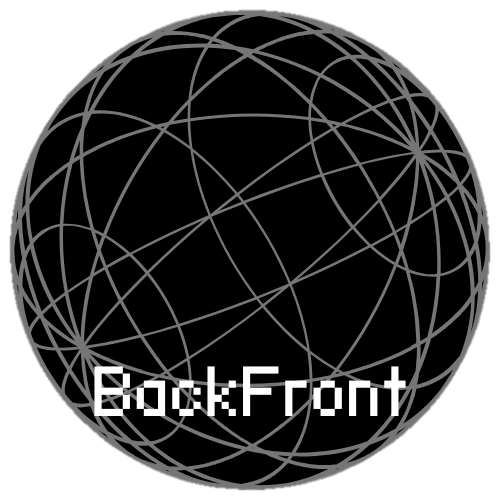
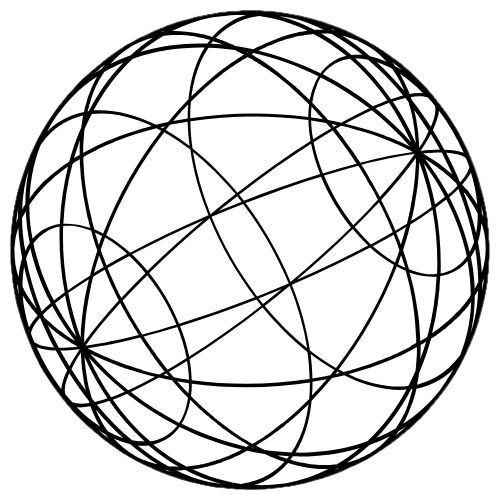
update 11:10
ReleaseNotes, New Logo, updated footer

diff --git a/src/client/index.html b/src/client/index.html
@@ -11,7 +11,7 @@
     <link
       rel="icon"
       type="image/x-icon"
-      href="../../resources/images/Favicon.svg"
+      href="../../resources/images/backfront-fav.png"
     />
 
     <!-- SEO -->
@@ -140,62 +140,11 @@
   >
     <header class="l-header">
       <div class="l-header__content">
-        <svg
-          xmlns="http://www.w3.org/2000/svg"
-          viewBox="0 0 1364 259"
-          width="100%"
-          height="100%"
-          fill="currentColor"
-          class="l-header__logo"
-        >
-          <defs>
-            <linearGradient
-              id="logo-gradient"
-              x1="0%"
-              y1="0%"
-              x2="100%"
-              y2="0%"
-            >
-              <stop offset="0%" style="stop-color: #2563eb" />
-              <stop offset="100%" style="stop-color: #3b82f6" />
-            </linearGradient>
-          </defs>
-          <g>
-            <path
-              d="M0,174V51h15.24v-17.14h16.81v-16.98h16.96V0h1266v17.23h17.13v16.81h16.98v16.96h14.88v123h-15.13v17.08h-17.08v17.08h-16.9v17.04H324.9v16.86h-16.9v16.95h-102v-17.12h-17.07v-17.05H48.73v-17.05h-16.89v-16.89H14.94v-16.89H0ZM1297.95,17.35H65.9v16.7h-17.08v17.08h-14.5v123.08h14.85v16.9h17.08v17.08h139.9v17.08h17.08v16.36h67.9v-16.72h17.08v-17.07h989.88v-17.07h17.08v-16.9h14.44V50.8h-14.75v-17.08h-16.9v-16.37Z"
-            />
-            <path
-              d="M189.1,154.78v17.07h-16.9v16.75h-51.07v-16.42h-16.9v-17.07h-16.97v-84.88h16.63v-17.07h16.9v-16.84h51.07v16.5h17.07v17.07h16.7v84.89h-16.54ZM137.87,53.1v17.15h-16.6v84.86h16.97v16.61h16.89v-16.97h16.6v-84.86h-16.97v-16.79h-16.89Z"
-            />
-            <path
-              d="M273.91,104.06v-16.73h50.92v16.45h16.85v68.05h-16.44v17.06h-50.96v16.88h16.4v16.96h-67.28v-16.61h16.33v-101.86h-16.38v-16.98h33.4v16.63c6.12,0,11.72,0,17.31,0,0,22.56,0,45.13,0,67.75h33.59v-67.61h-33.73Z"
-            />
-            <path
-              d="M631.12,188.64v-16.36h16.53V53.2h-16.25v-16.86h118.33v33.29h-16.65v-16.36h-50.72v50.44h33.36v-16.35h16.99v50.25h-16.6v-16.33h-33.73v50.65h16.37v16.72h-67.63Z"
-            />
-            <path
-              d="M596.78,103.8v84.94h-33.54v-84.39h-34.03v84.25h-33.85v-101.29h84.5v16.49h16.93Z"
-            />
-            <path
-              d="M1107.12,188.71v-84.34h-34.03v84.37h-33.7v-101.41h84.42v16.41h16.86v84.96h-33.54Z"
-            />
-            <path
-              d="M988.1,171.78v16.87h-67.88v-16.38h-16.87v-68.06h16.38v-16.87h68.06v16.38h16.87v68.06h-16.55ZM970.78,104.35h-33.39v67.38h33.39v-67.38Z"
-            />
-            <path
-              d="M460.77,155.38v16.49h-16.58v16.83h-68.05v-16.5h-16.83v-68.05h16.49v-16.83h68.05v16.49h16.83v34.06h-67.31v33.82h33.47v-16.31h33.92ZM393.39,104.18v16.56h33.3v-16.56h-33.3Z"
-            />
-            <path
-              d="M1209.13,172h-16.9v-67.9h-16.96v-16.9h16.68v-17.08h16.9v-16.82h16.9v33.58h50.98v16.91h-50.4v67.96h16.48v-16.43h50.95v16.54h-16.55v16.76h-68.08v-16.6Z"
-            />
-            <path
-              d="M834.91,120.94v16.96h-16.65v33.88h16.41v16.96h-67.29v-16.63h16.34v-67.87h-16.4v-16.97h50.42v33.81h17.3l-.14-.14Z"
-            />
-            <path
-              d="M835.05,121.08v-33.75h33.76v16.43h16.85v33.96h-33.43v-16.79c-6.13,0-11.73,0-17.32,0,0,0,.14.14.14.14Z"
-            />
-          </g>
-        </svg>
+        <img
+          src="../../resources/images/bf-logo.png"
+          width="50%"
+          height="200px"
+        />
         <div id="game-version" class="l-header__highlightText text-center">
           Loading version...
         </div>
@@ -329,28 +278,6 @@
           >
             How to Play
           </a>
-          <a
-            href="https://openfront.miraheze.org/wiki/Main_Page"
-            data-i18n="main.wiki"
-            class="t-link"
-            target="_blank"
-          >
-            Wiki
-          </a>
-          <a
-            target="_blank"
-            href="https://www.reddit.com/r/Openfront/"
-            class="t-link"
-          >
-            <span data-i18n="main.reddit"> Reddit </span>
-          </a>
-          <a
-            target="_blank"
-            href="https://discord.gg/jRpxXvG42t"
-            class="t-link"
-          >
-            <span data-i18n="main.join_discord"> Join the Discord! </span>
-          </a>
         </div>
         <div class="l-footer__col t-text-white space-x-4">
           <a
@@ -367,6 +294,7 @@
               class="ml-2"
             />
           </a>
+          <!--
           <a
             href="/privacy-policy.html"
             data-i18n="main.privacy_policy"
@@ -375,15 +303,7 @@
           >
             Privacy Policy
           </a>
-          <a
-            href="/terms-of-service.html"
-            data-i18n="main.terms_of_service"
-            class="t-link"
-            target="_blank"
-          >
-            Terms of Service
-          </a>
-        </div>
+        --></div>
       </div>
     </footer>
     <account-button></account-button>

diff --git a/src/client/NewsModal.ts b/src/client/NewsModal.ts
@@ -29,13 +29,9 @@ export class NewsModal extends LitElement {
     }
   };
 
-  // Hier trägst du manuell deinen Changelog ein (Markdown erlaubt)
   private manualChangelog: string = `
 # 📰 Update v0.1
-**Released:** Nov. 2025
-
-### What's New?
-- Modded by CHTriple & FreshFlash
+Modded by **CHTriple** & **FreshFlash**
 `;
 
   @property({ type: String }) markdown = this.manualChangelog;
@@ -71,18 +67,28 @@ export class NewsModal extends LitElement {
     .news-content a:hover {
       color: #6fb3ff !important;
     }
-    o-button {
+    button {
       display: block;
-      margin: 1.5rem auto 0 auto; /* oben etwas Abstand, horizontal mittig */
-      width: 50%; /* kannst du anpassen, z. B. 40% oder 100% */
-      max-width: 250px; /* verhindert, dass er zu breit wird */
+      margin: 1.5rem auto 0 auto;
+      width: 160px;
+      padding: 0.6rem 1rem;
       text-align: center;
+      font-size: 1rem;
+      font-weight: 500;
+      color: #fff;
+      background-color: #4a9eff;
+      border: none;
+      border-radius: 8px;
+      cursor: pointer;
+      transition: background-color 0.2s ease;
     }
 
-    @media (max-width: 600px) {
-      o-button {
-        width: 80%; /* auf kleineren Displays etwas breiter */
-      }
+    button:hover {
+      background-color: #6fb3ff;
+    }
+
+    button:active {
+      background-color: #3a8de0;
     }
   `;
 
@@ -101,13 +107,7 @@ export class NewsModal extends LitElement {
             </div>
           </div>
         </div>
-
-        <o-button
-          title=${translateText("common.close")}
-          @click=${this.close}
-          blockDesktop
-        ></o-button>
-      </o-modal>
+      </modal>
     `;
   }
 
